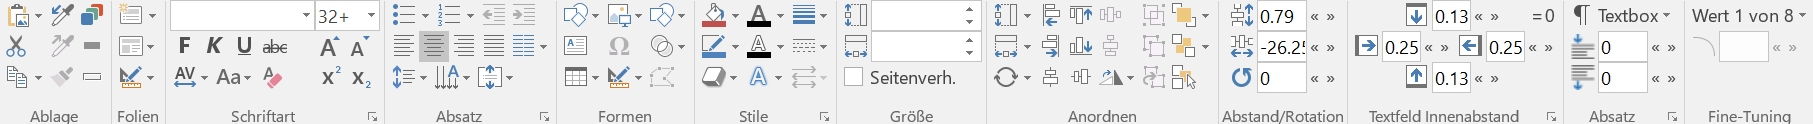
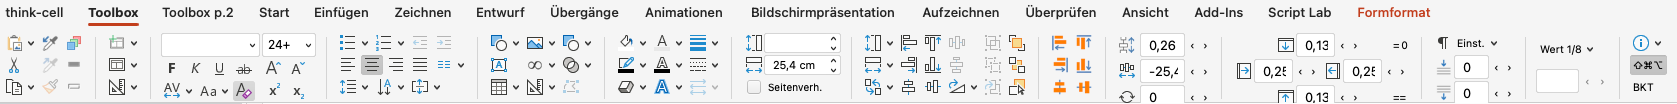
Update legacy toolbar installation docs

diff --git a/legacy.md b/legacy.md
@@ -19,7 +19,7 @@ Die Legacy-Toolbar läuft unter Windows ab Office 2010 und unter Mac ab Office 2
 
 ## Installation
 
-Die Legacy-Toolbar kann als **[kompiliertes Addin (ppam-Datei)](https://github.com/pyro-team/bkt-legacy/releases/latest) heruntergeladen** werden, welche als PowerPoint-Addin eingebunden werden muss. Um die Funktion "Templatefolien einfügen" aus dem Folienmenü zu nutzen, muss außerdem die Datei `Templates.pptx` heruntergeladen und in den gleichen Ordner wie das Addin kopiert werden. Eigene Templates können natürlich ergänzt werden.
+Die Legacy-Toolbar kann für Windows als **[kompiliertes Addin (ppam-Datei)](https://github.com/pyro-team/bkt-legacy/releases/latest)** und für Mac als **[ZIP-Datei mit Installer](https://github.com/pyro-team/bkt-legacy/releases/latest)** heruntergeladen werden. Das Add-In muss anschließend als PowerPoint-Add-In eingebunden werden. Um die Funktion "Templatefolien einfügen" aus dem Folienmenü zu nutzen, muss außerdem die Datei `Templates.pptx` heruntergeladen und in den gleichen Ordner wie das Addin kopiert werden. Eigene Templates können natürlich ergänzt werden. Für die Library-Funktion muss unter Windows und Mac im gleichen Ordner wie das Addin ein Ordner `Library` angelegt werden. Darin können `pptx`-Dateien abgelegt werden; Unterordner werden als Untermenüs angezeigt.
 
 ### Installation unter Windows
 
@@ -29,6 +29,12 @@ Die Legacy-Toolbar kann als **[kompiliertes Addin (ppam-Datei)](https://github.c
 
 ### Installation unter Mac
 
-1. Wählen Sie im Menü Extras > PowerPoint-Add-Ins.<br><img src="documentation/legacy_install_mac1.png">
-1. Nun erscheint ein Fenster mit den aktiven Add-Ins. Entfernen Sie bei Bedarf ältere Versionen des Add-Ins mit "-" und wählen dann "+" um das Add-In hinzuzufügen. Im Datei-Dialog wählen Sie die heruntergeladene Datei (`BKT-Legacy-1.x.x.ppam`) aus.<br><img src="documentation/legacy_install_mac2.png">
+Die Datei `install.command` installiert zusätzlich ein AppleScript für den Tastaturzugriff über Shortcuts wie Option oder Command. Falls Sie diese Tastatur-Shortcuts nicht verwenden möchten, können Sie das Add-In wie bisher direkt in PowerPoint installieren und mit dem PowerPoint-Add-Ins-Schritt fortfahren.
+
+1. Laden Sie die Datei `BKT-Legacy-mac.zip` von der [Release-Seite](https://github.com/pyro-team/bkt-legacy/releases/latest) herunter und entpacken Sie sie.
+1. Führen Sie die enthaltene Datei `install.command` aus. Falls macOS die Ausführung blockiert, öffnen Sie Systemeinstellungen > Datenschutz & Sicherheit und erlauben Sie die Datei mit "Dennoch öffnen".<br><img src="documentation/legacy_install_mac_allow1.png">
+1. Bestätigen Sie die erneute Sicherheitsabfrage mit "Dennoch öffnen". Ggf. erscheint anschließend eine Admin-Aufforderung.<br><img src="documentation/legacy_install_mac_allow2.png">
+1. Wählen Sie im Terminal den Installationsordner aus.<br><img src="documentation/legacy_install_mac_folder.png"><br>Der Standardinstallationspfad ist `~/Library/Group Containers/UBF8T346G9.Office/User Content/Add-Ins/BKT-Legacy.ppam`. Ggf. fragt macOS zusätzlich nach Dateizugriff für das Terminal.
+1. Wählen Sie in PowerPoint im Menü Extras > PowerPoint-Add-Ins.<br><img src="documentation/legacy_install_mac1.png">
+1. Nun erscheint ein Fenster mit den aktiven Add-Ins. Entfernen Sie bei Bedarf ältere Versionen des Add-Ins mit "-" und wählen dann "+" um das Add-In hinzuzufügen. Im Datei-Dialog wählen Sie die installierte Datei `BKT-Legacy.ppam` aus, üblicherweise unter `~/Library/Group Containers/UBF8T346G9.Office/User Content/Add-Ins/BKT-Legacy.ppam`.<br><img src="documentation/legacy_install_mac2.png">
 1. In den nun erscheinenden Dialogen müssen Sie Makros aktivieren und ggf. die Sicherheitseinstellungen für dieses Add-In deaktivieren.<br><img src="documentation/legacy_install_mac3.png">
